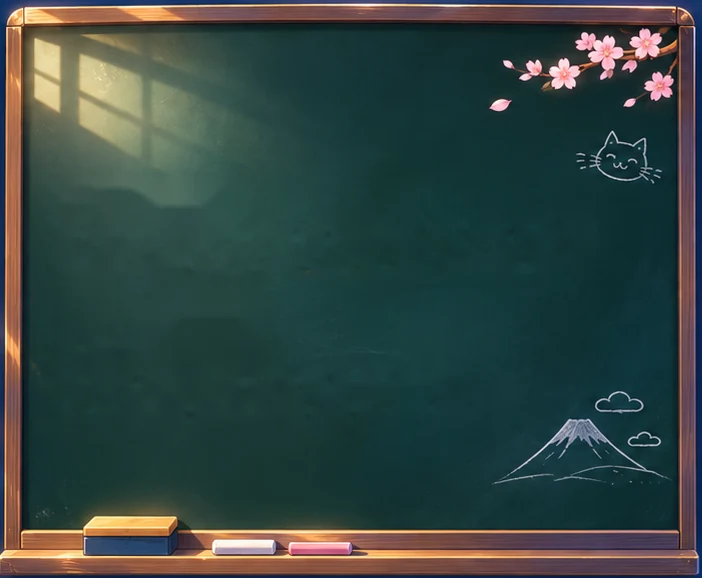
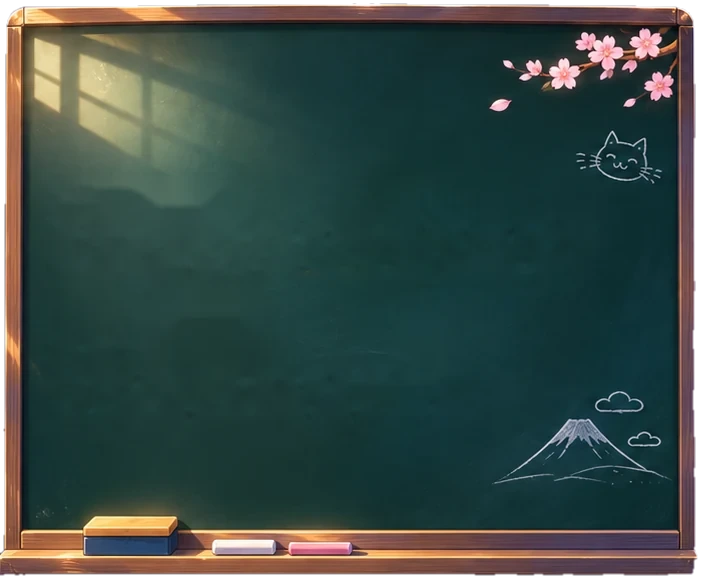
big update

Changed region(s): [[0.0, 0.0, 1.0, 1.0]]

diff --git a/src/components/reboursIllustre.css b/src/components/reboursIllustre.css
@@ -160,3 +160,40 @@
   }
   :root[data-da='blue-sky'][data-saison] .rebours.rebours .rebours__fin { border-top-color: var(--illu-bord); }
 }
+
+/* SUR TÉLÉPHONE, PLUS PETIT — Camara, le 17/11/2026 : « le bandeau Black Friday est trop gros sur mobile ». Tout se
+   resserre : marges, mention, phrase, cases du compte à rebours et bouton. */
+@media (max-width: 560px) {
+  .rebours.rebours { gap: 12px; padding: 14px 14px 16px; border-radius: 20px; }
+  .rebours.rebours .rebours__mention { gap: 7px; padding: 4px 12px 4px 9px; font-size: 11.5px; }
+  .rebours__torii { width: 17px; height: 15px; }
+  .rebours.rebours .rebours__phrase { margin-top: 8px; font-size: 15.5px; line-height: 1.3; }
+  .rebours.rebours .rebours__libelle { margin-bottom: 7px; font-size: 11.5px; }
+  .rebours.rebours .rebours__cases { gap: 8px; }
+  .rebours.rebours .rebours__case { min-width: 62px; padding: 6px 8px 6px; }
+  .rebours.rebours .rebours__case strong { font-size: 24px; }
+  .rebours.rebours .rebours__case small { margin-top: 2px; font-size: 10.5px; }
+  .rebours.rebours .rebours__bouton { padding: 10px 20px; font-size: 15px; }
+}
+
+/* SUR TÉLÉPHONE, « FIN DE L'OFFRE DANS » ET SES CASES AU CENTRE — Camara, le 17/11/2026. */
+@media (max-width: 820px) {
+  .rebours.rebours .rebours__fin { text-align: center; }
+  .rebours.rebours .rebours__libelle { text-align: center; }
+  .rebours.rebours .rebours__cases { justify-content: center; }
+}
+
+/* « VOIR L'OFFRE » PLUS PETIT SUR TÉLÉPHONE — Camara, le 17/11/2026 : « trop gros ». Il ne prend plus toute la largeur :
+   une pilule à sa taille, centrée, moins haute. */
+@media (max-width: 560px) {
+  .rebours.rebours .rebours__bouton.rebours__bouton {
+    justify-self: center;
+    align-self: center;
+    width: auto;
+    min-width: 0;
+    margin: 0 auto;
+    padding: 8px 26px;
+    font-size: 14px;
+    background-size: auto 22%, auto;
+  }
+}

diff --git a/src/components/podcasts/podcastsIllustre.css b/src/components/podcasts/podcastsIllustre.css
@@ -481,3 +481,30 @@
   color: #ffffff;
   text-shadow: 0 1px 2px rgba(60, 35, 0, 0.7);
 }
+
+/* PLUS COMPACT, COMME LES FICHES — Camara, le 17/11/2026 : « les éléments sont trop gros, réduis un peu la taille
+   comme pour les fiches de révision ». La page prend la largeur de celle des fiches (980 px) : la bannière, mesurée
+   sur sa largeur, rapetisse d'elle-même ; la jauge et les cartes des cours se resserrent. Le téléphone garde ses
+   réglages (plus bas dans ce fichier, ils viennent avant : on ne touche qu'aux écrans larges). */
+@media (min-width: 761px) {
+  .mf-page.podi { max-width: 980px; }
+
+  .podi-jauge { gap: 16px; margin-bottom: 20px; padding: 12px 22px 12px 16px; border-radius: 20px; }
+  .podi-jauge__icone { width: 64px; }
+
+  .podi-carte__lien { gap: 18px; min-height: 112px; padding: 10px 20px 10px 16px; border-radius: 24px; }
+  .podi-carte__vignette { width: 120px; height: 86px; border-radius: 13px; }
+  .podi-carte__texte { gap: 4px; }
+  .podi-carte__matiere { padding: 2px 12px; font-size: 13px; }
+  .podi-carte__titre { gap: 10px; font-size: 20px; }
+  .podi-onde { height: 24px; }
+  .podi-onde i:nth-child(1) { height: 10px; }
+  .podi-onde i:nth-child(2) { height: 17px; }
+  .podi-onde i:nth-child(3) { height: 24px; }
+  .podi-onde i:nth-child(4) { height: 16px; }
+  .podi-onde i:nth-child(5) { height: 10px; }
+  .podi-carte__meta { gap: 4px 26px; padding-left: 38px; font-size: 14px; }
+  .podi-icone { width: 17px; height: 17px; }
+  .podi-carte__jouer { width: 64px; height: 64px; }
+  .podi-triangle { margin-left: 5px; border-top-width: 12px; border-bottom-width: 12px; border-left-width: 19px; }
+}

diff --git a/src/App.css b/src/App.css
@@ -44730,3 +44730,26 @@ html:has(
   height: 17px;
   margin-right: 7px;
 }
+
+/* LA BARRE DU HAUT SUR TÉLÉPHONE — Camara, le 17/11/2026 : « sur mobile le logo Mimia est tout petit, il faut réduire
+   la taille des boutons ». Les trois boutons perdent leur pictogramme et se resserrent ; le logo reprend la place
+   qu'ils lui laissent (un plancher de 96 px de large). Les éclats de « Connexion » restent. */
+@media (max-width: 560px) {
+  .navbar__right .navbar__icone { display: none; }
+
+  .navbar__right > .btn-ghost,
+  .navbar__right > .btn,
+  .navbar__right .navbar__lien-direct,
+  .navbar__right .menu-compte__bouton {
+    height: 32px;
+    padding-left: 10px;
+    padding-right: 10px;
+    font-size: 12.5px;
+    background-size: auto 34%, auto 30%, auto;
+  }
+
+  .navbar__right { gap: 6px; }
+  .navbar__brand { flex: 1 0 96px; }
+  .navbar__logo { height: 30px; }
+  .navbar__right .navbar__connexion::after { top: -12px; right: -9px; width: 18px; height: 16px; }
+}

diff --git a/src/components/exercicesIllustre.css b/src/components/exercicesIllustre.css
@@ -93,7 +93,9 @@
   border: 0;
   border-radius: 6px;
   background: url('../assets/exercices/tableau.webp') center / 100% 100% no-repeat;
-  box-shadow: 0 18px 36px rgba(0, 0, 0, 0.45);
+  /* L'ombre suit le cadre détouré (17/11/2026) : une ombre de boîte dessinait un rectangle autour des coins arrondis. */
+  box-shadow: none;
+  filter: drop-shadow(0 14px 22px rgba(0, 0, 0, 0.45));
   overflow: hidden;
   align-items: center;
 }
